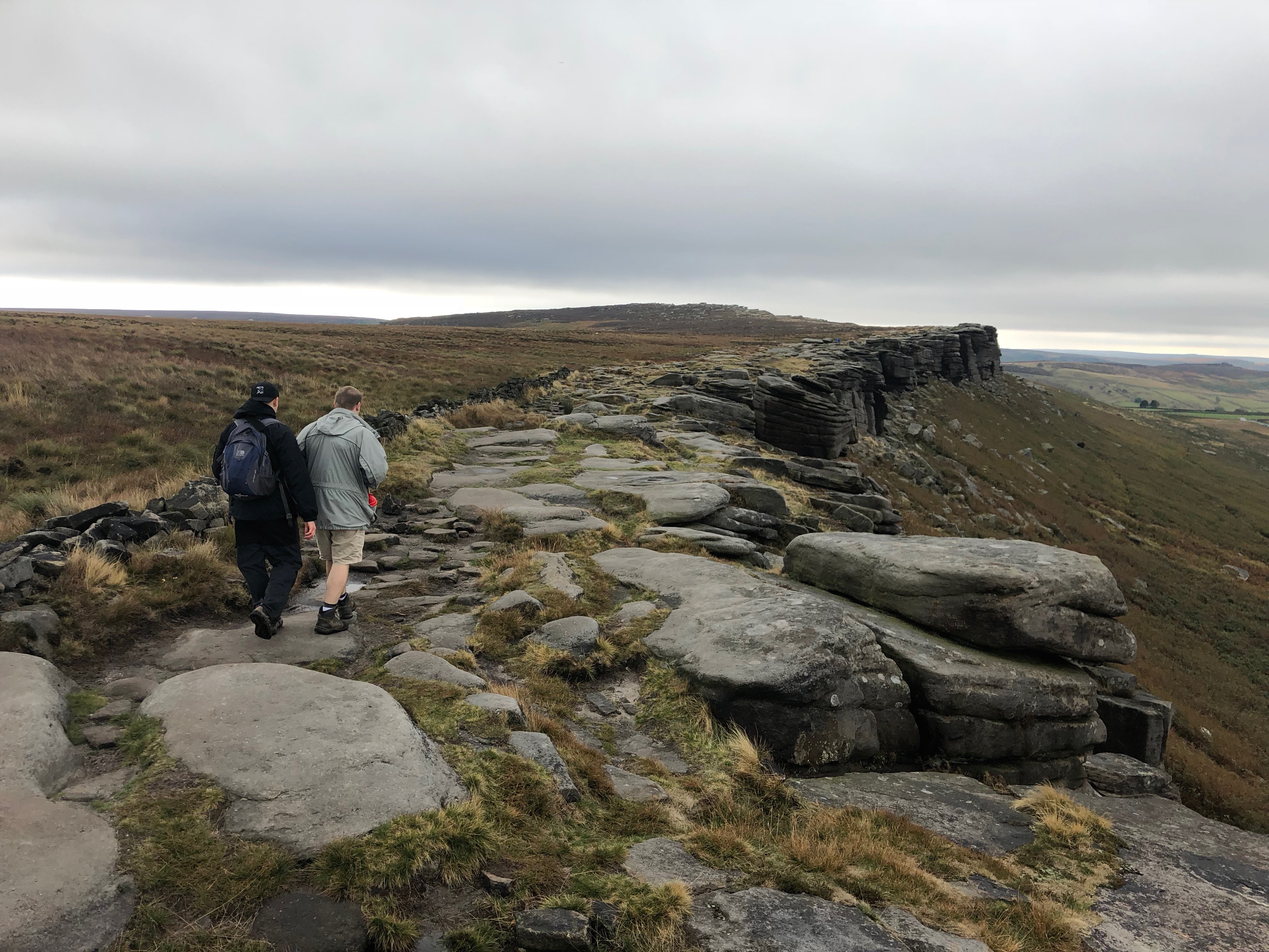
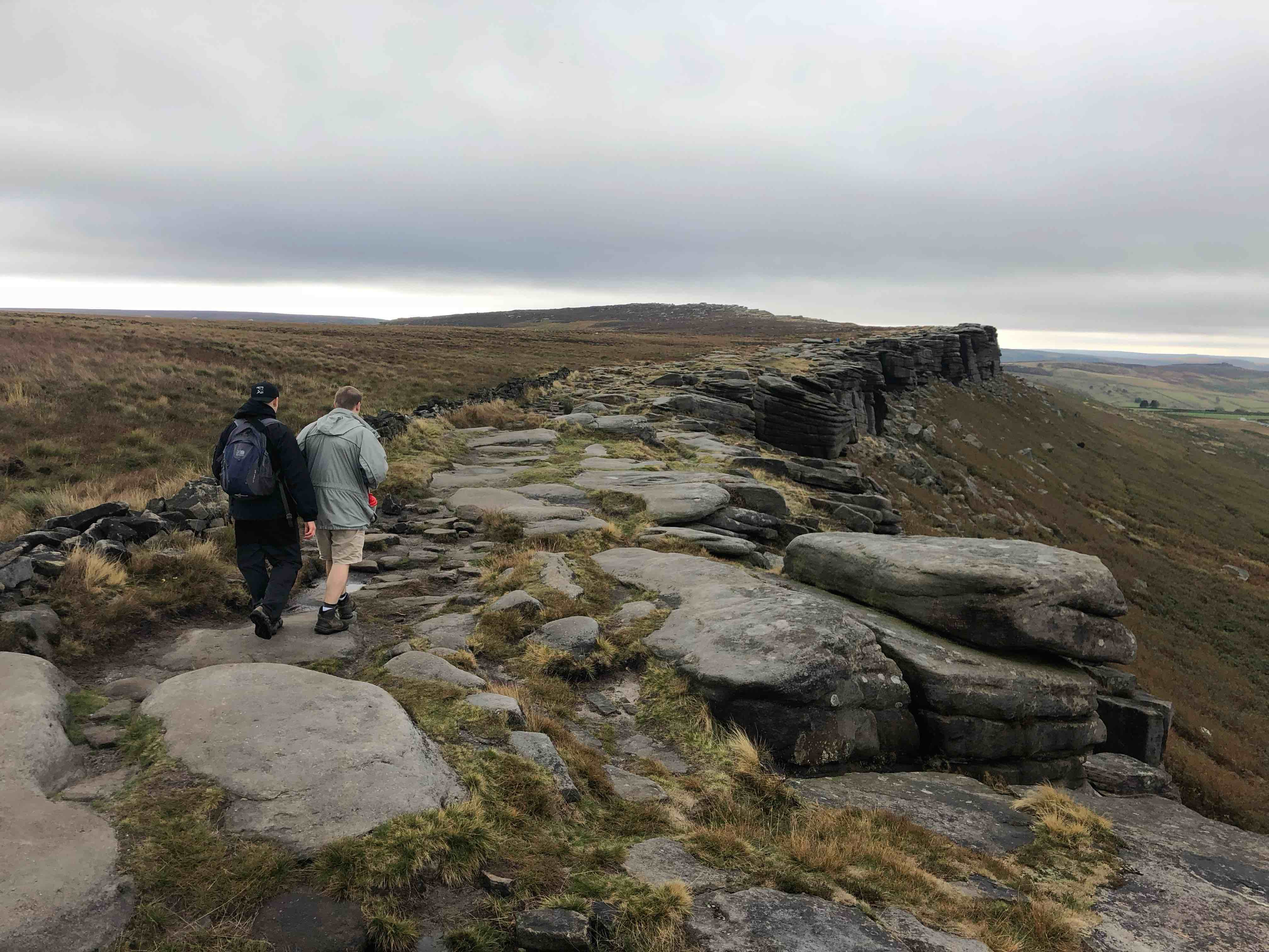
reduced image file size

diff --git a/_posts/2018-12-01-travel.md b/_posts/2018-12-01-travel.md
@@ -37,7 +37,7 @@ I camped for two nights near Yosemite National Park in order to hike Cloud's Res
 I traveled to Manchester, UK for the 15th International Exchange Meeting on Partitioning and Transmutation. I presented a poster, titled "Impact of partitioning and transmutation on the back end of the fuel cycle". After the conference, I met up with some good friends to travel around the UK, since I'd never been outside of London. We spent a night in the Peak District and hiked Stannedge Edge, visited Bristol for a night out, then returned to London. There I met up with Carolyn for a whirlwind weekend before heading home.
 
 <p float="left">
-  <img src="/images/2018-10_stannedge_edge.png" alt="Mark and Richard walking the edge" width="350" />
+  <img src="/images/2018-10_stannedge_edge.jpg" alt="Mark and Richard walking the edge" width="350" />
 
   <img src="/images/2018-10_london.jpg" alt="Carolyn and I (and a sad abandoned umbrella) at Tower Bridge" width="350" />
 </p>
